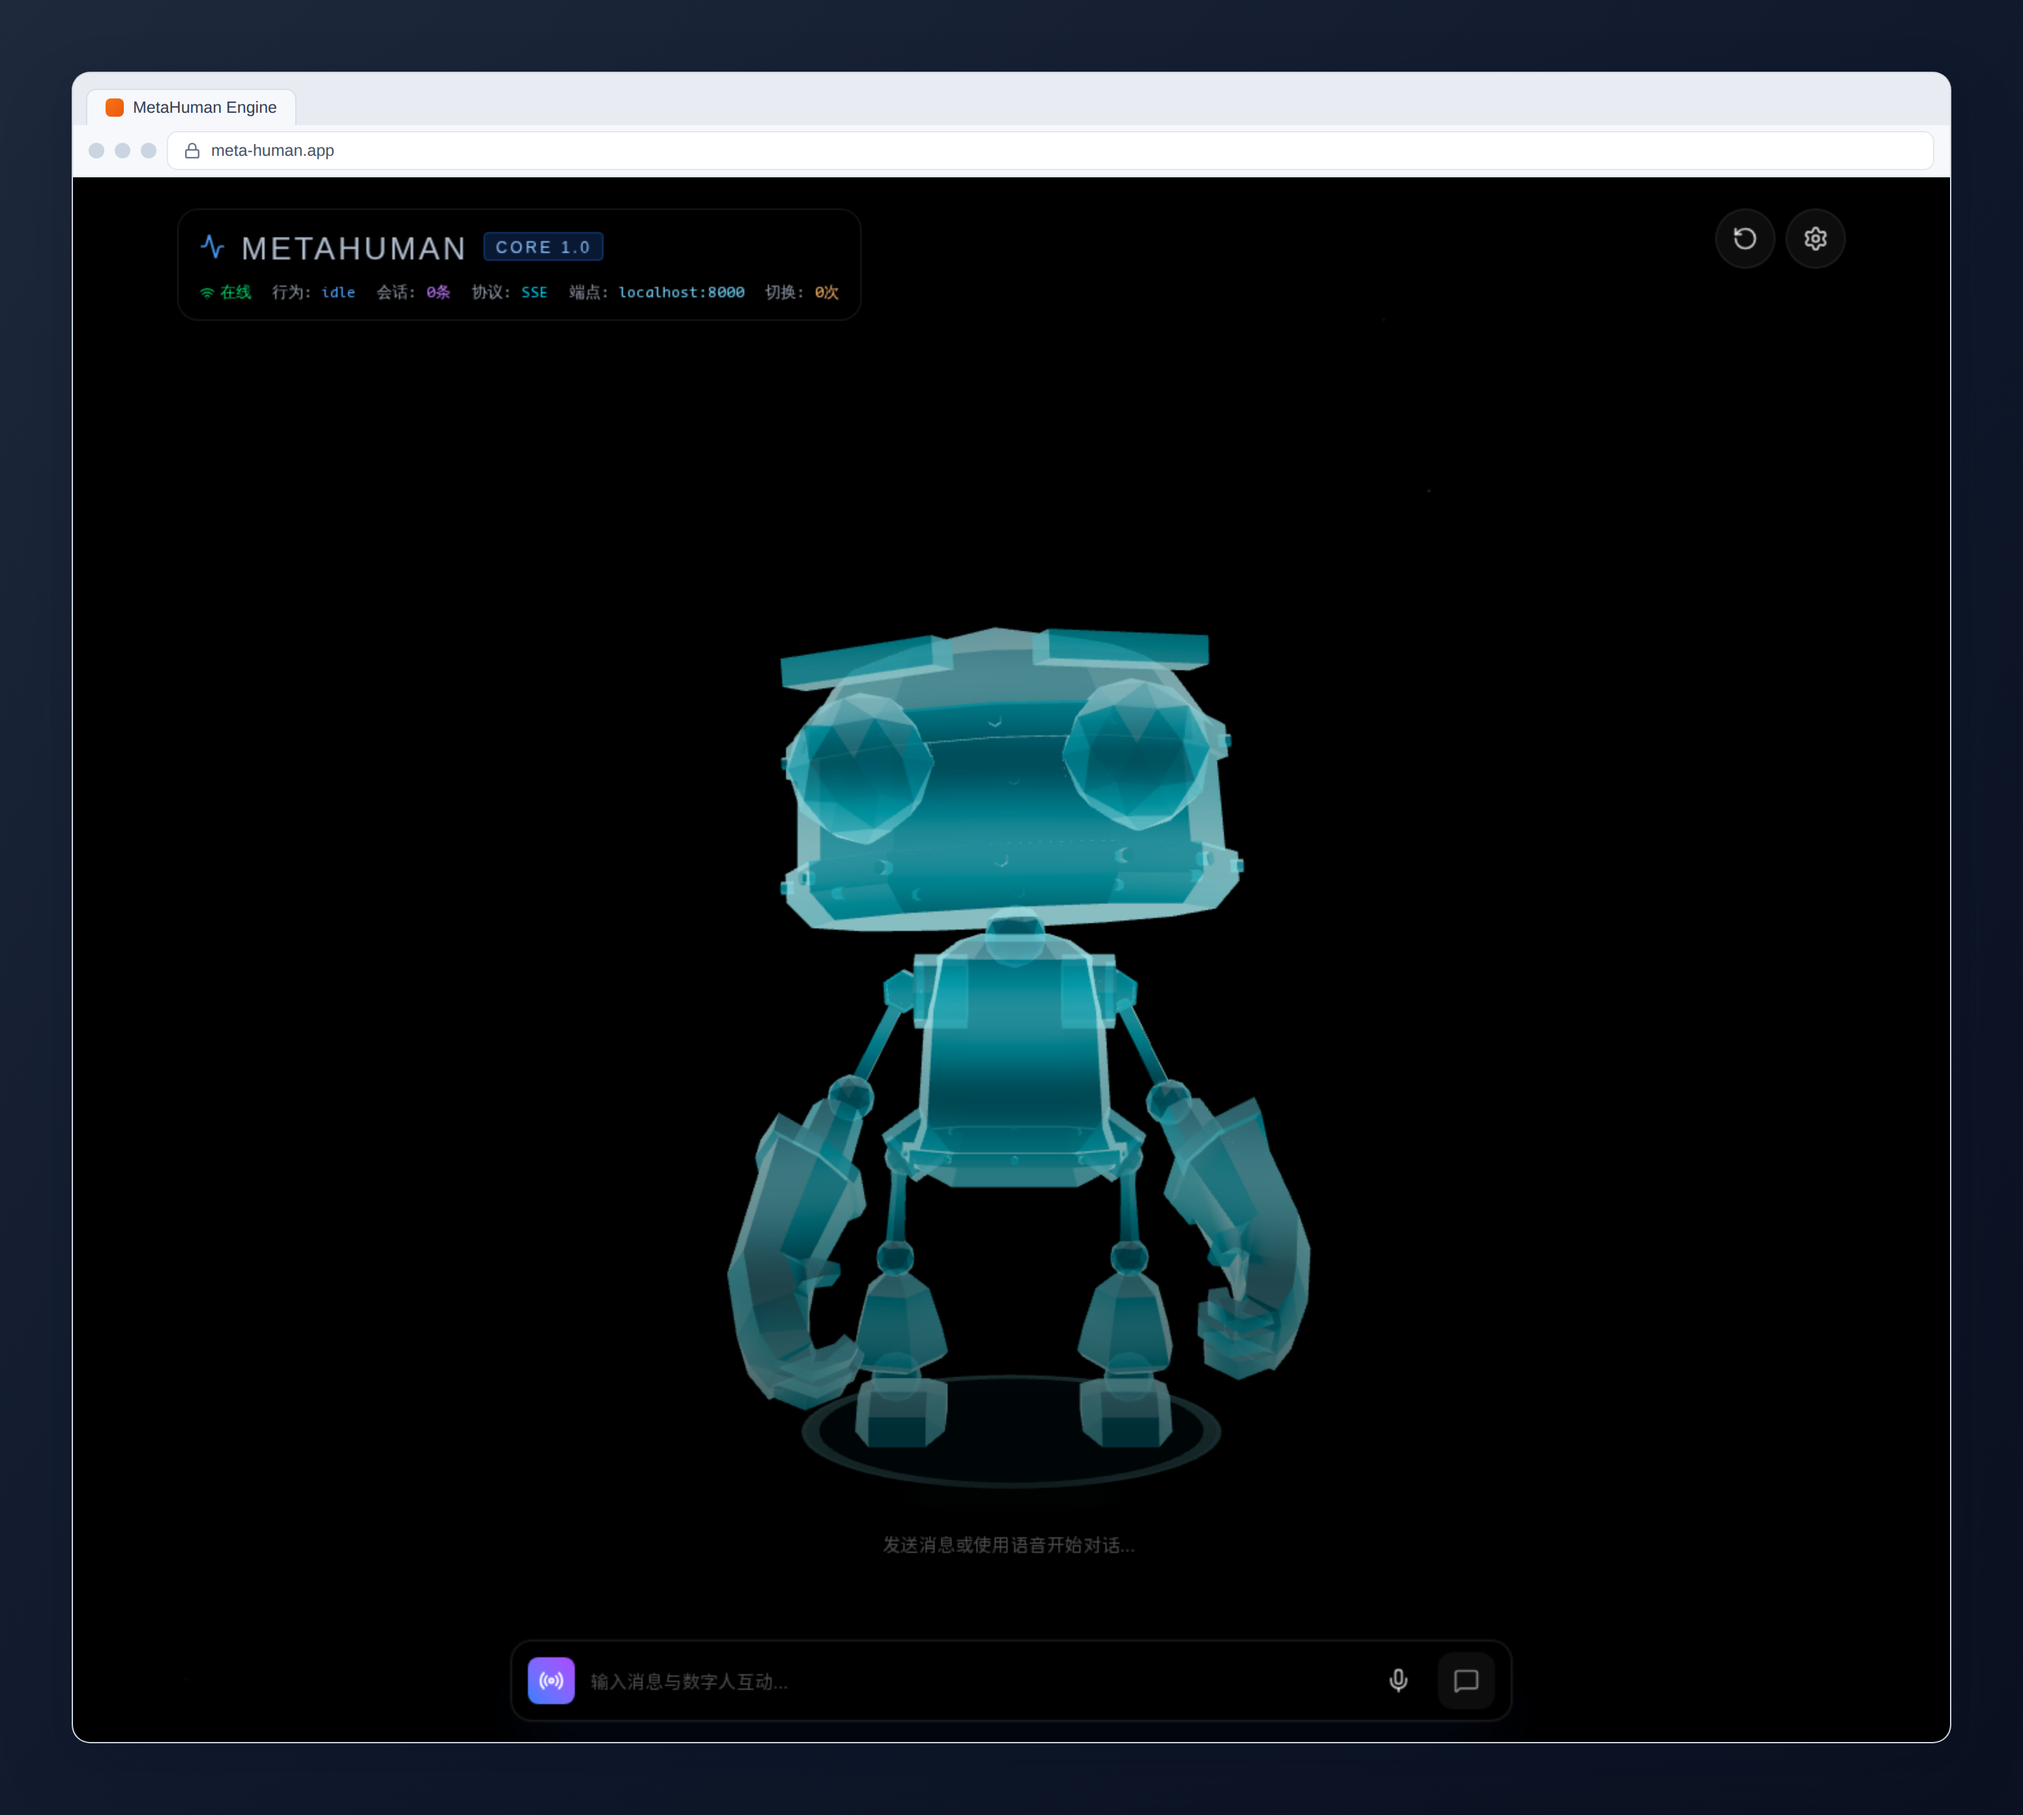
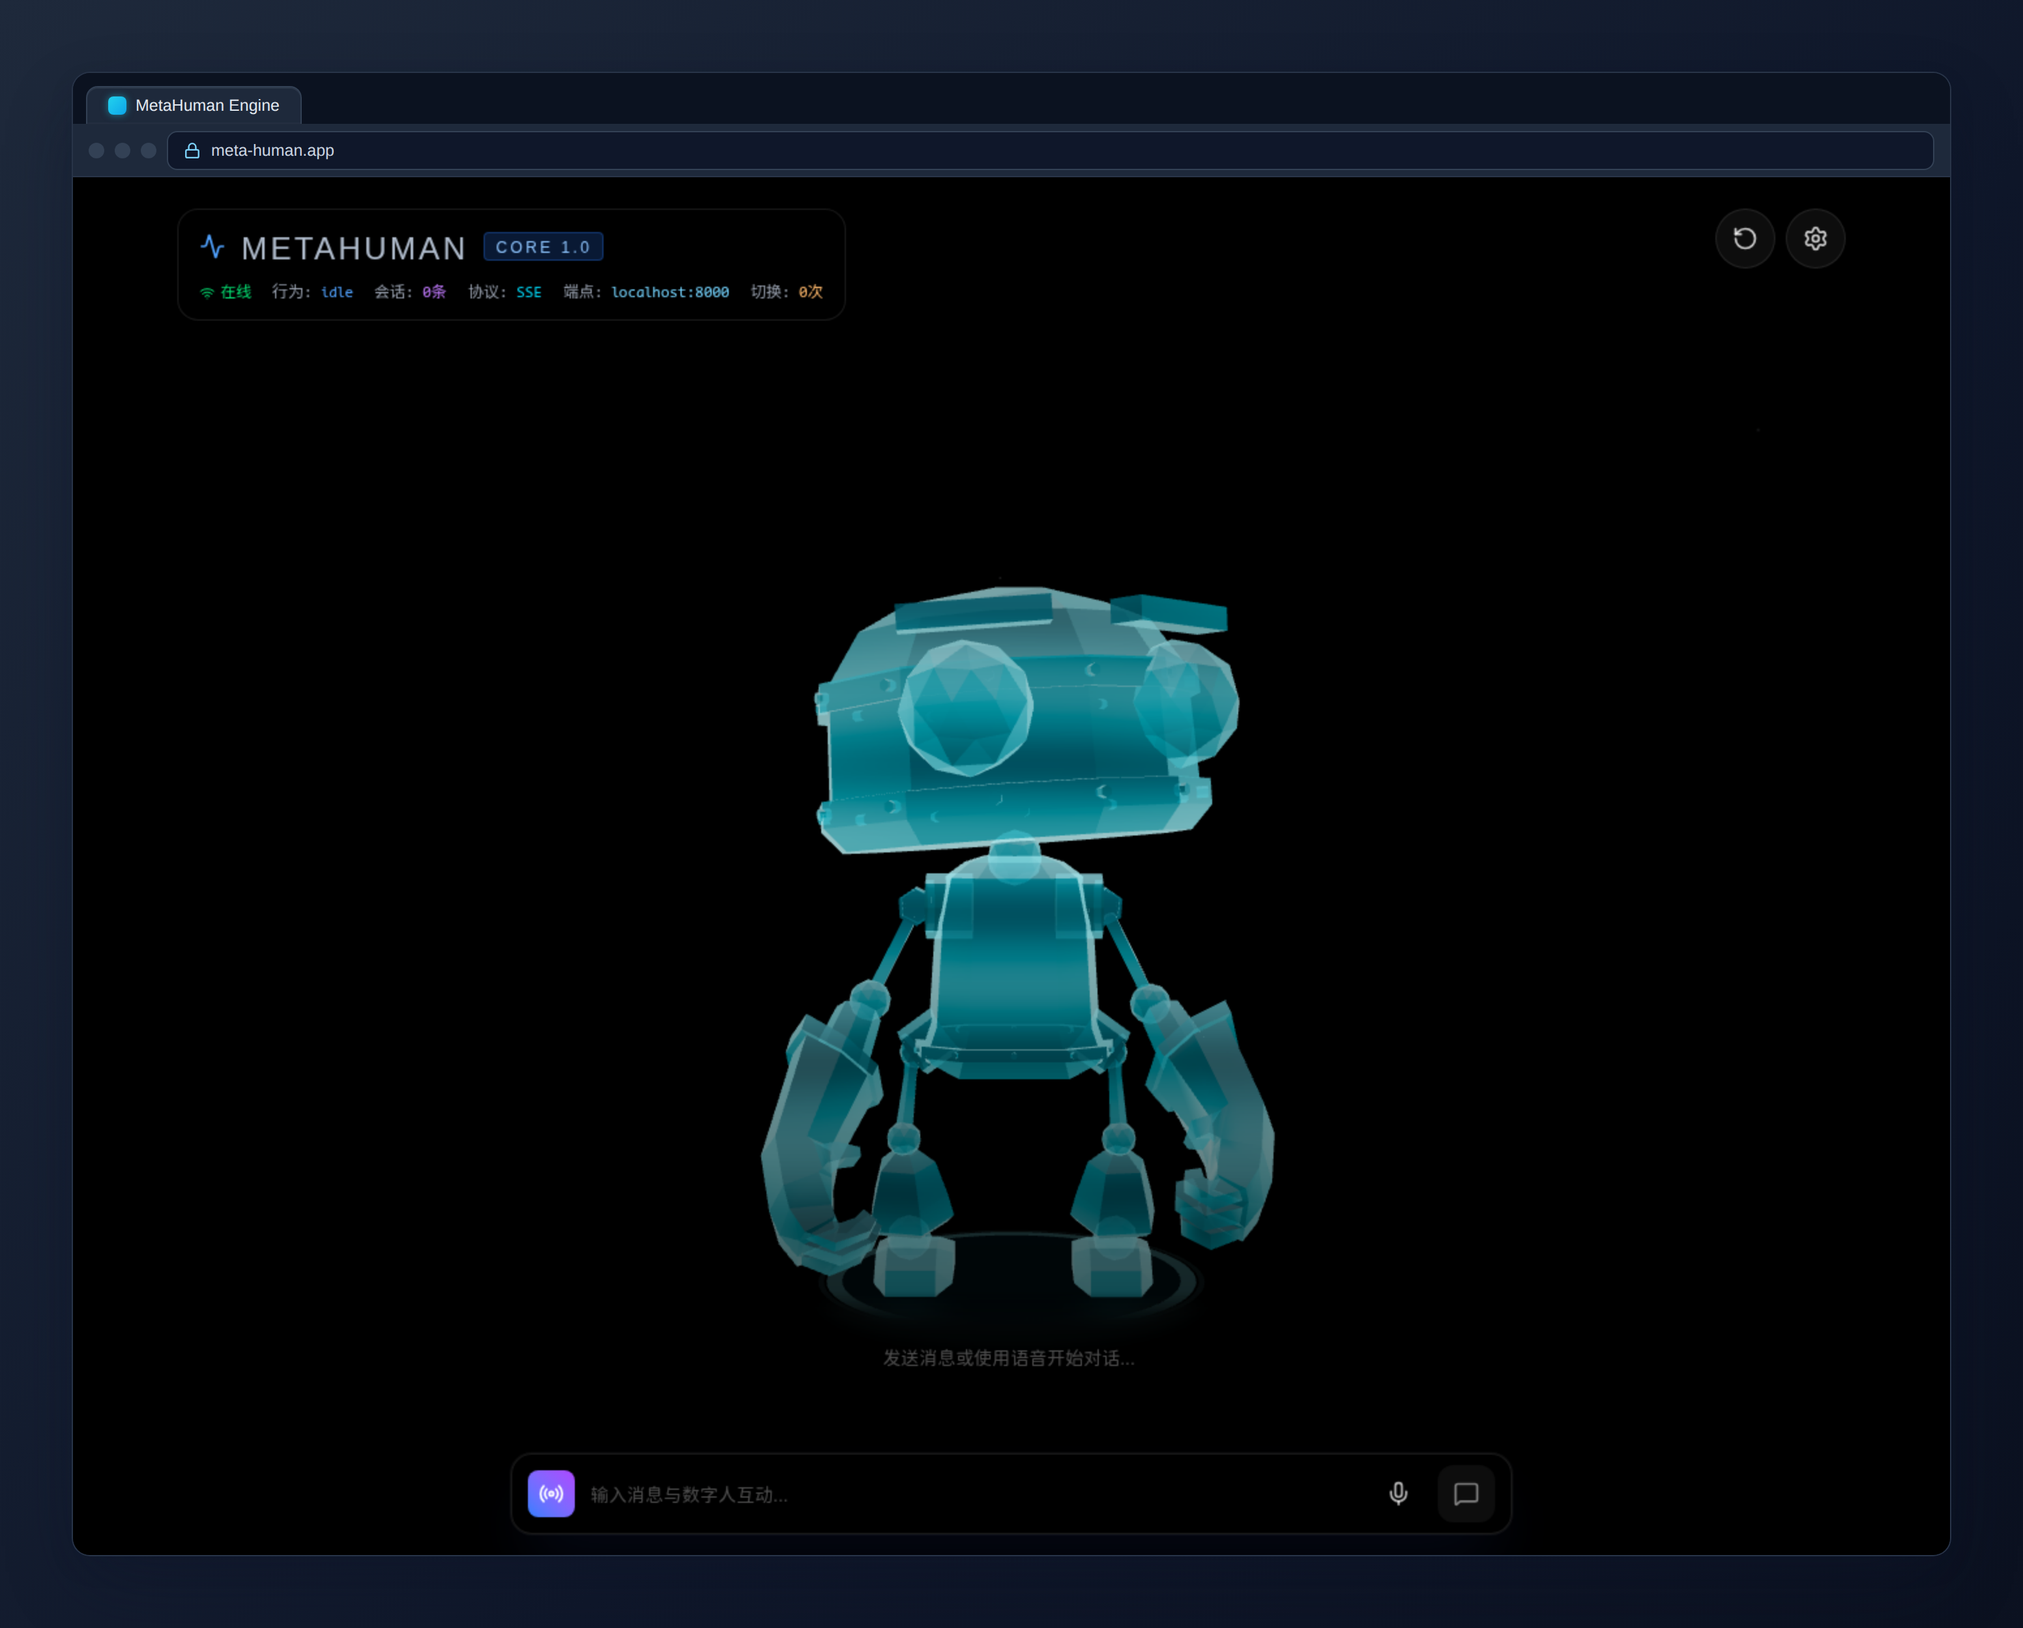
docs: README 截图重制为深色浏览器框成品图，删除损坏的 preview.svg

Changed region(s): [[0.3438, 0.3435, 0.6562, 0.8743], [0.0312, 0.0312, 0.9688, 0.1873], [0.0312, 0.9055, 0.9688, 0.968]]

diff --git a/README.md b/README.md
@@ -9,7 +9,7 @@
 **[在线体验 →](https://vibe-knight.github.io/meta-human/)**
 
 <p align="center">
-  <img src="public/preview.svg" width="720" alt="MetaHuman Engine 预览" />
+  <img src="docs/screenshots/viewer-chat.png" width="720" alt="MetaHuman Engine 预览" />
 </p>
 
 打开页面，一个赛博风格的 3D 数字人站在场景中央。你在底部输入框打字或按下麦克风说话，它会逐字回复你，说话时嘴巴跟着张合，语气带上表情和肢体动作。你也可以让它打招呼、跳舞、点头，或者换一套自己的 GLB 模型上去。
@@ -17,10 +17,6 @@
 不需要后端、不需要 API Key，克隆下来就能跑。接入后端后解锁 LLM 对话。
 
 ## 截图
-
-<p align="center">
-  <img src="docs/screenshots/viewer-chat.png" width="720" alt="与数字人对话" />
-</p>
 
 <p align="center">
   <img src="docs/screenshots/viewer-idle.png" width="720" alt="3D 数字人形象" />

diff --git a/CHANGELOG.md b/CHANGELOG.md
@@ -28,7 +28,7 @@
 
 ### 📚 文档
 
-- **README 截图重制** — 重新截取产品截图并套浏览器边框：`viewer-chat.png` 更新为连接后端后的在线对话状态（原为离线/带 localhost 端点信息的旧图），新增 `viewer-idle.png` 展示 3D 数字人形象
+- **README 截图重制** — 重新截取产品截图并套深色浏览器边框：顶部预览图从静态 `preview.svg`（含未转义 `&` 导致渲染失败）换成真实对话截图 `viewer-chat.png`，删除 `public/preview.svg`；截图区补充 `viewer-idle.png` 展示 3D 数字人形象。配套优化了本地 `wsl-capture` / `shotframe` skill（Chromium wrapper 排除、`--no-proxy-server`、WebGL 软渲染、`--wait-ms` CDP 等待截图、`--theme dark` 深色窗口框）
 
 ---
 
